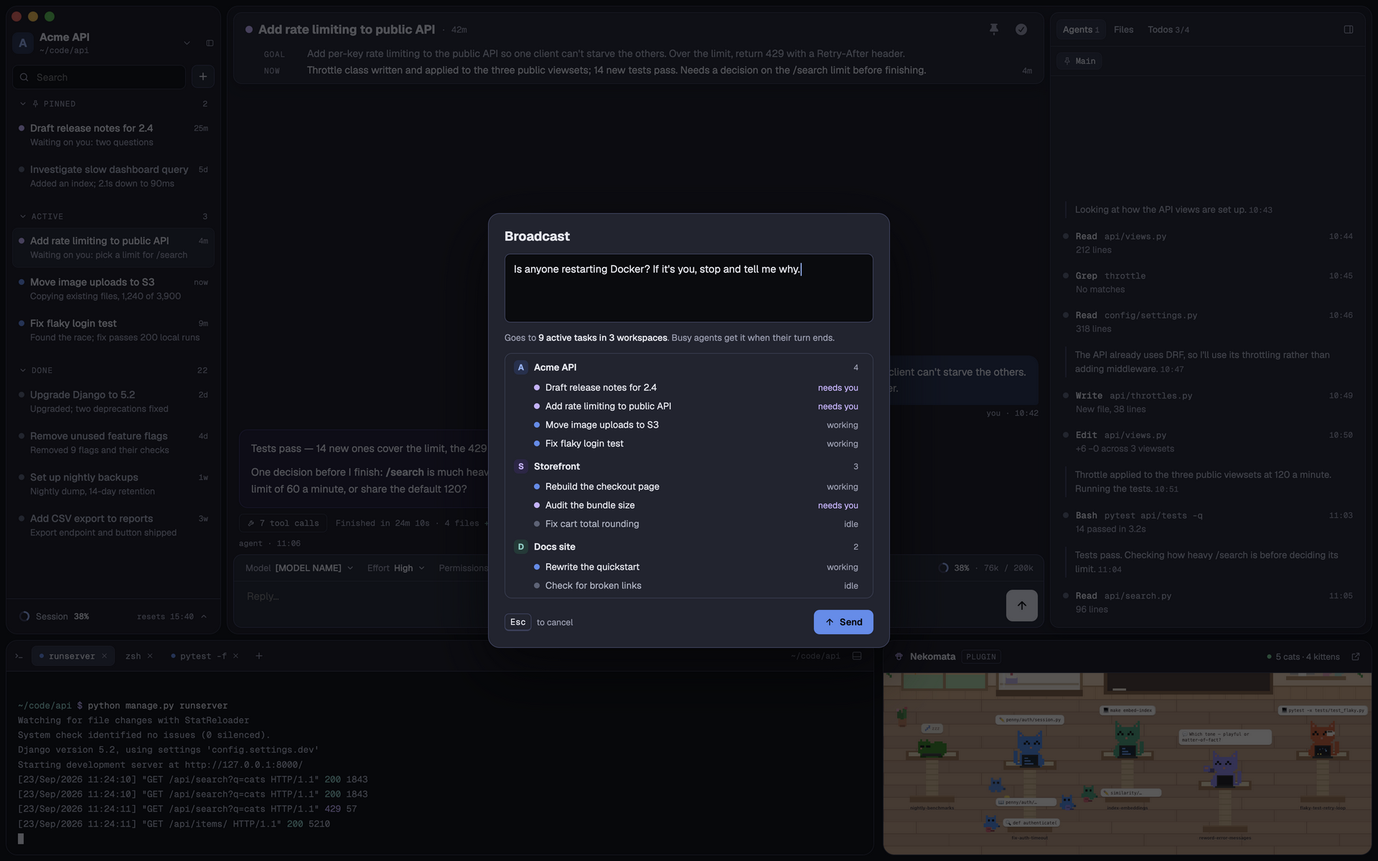
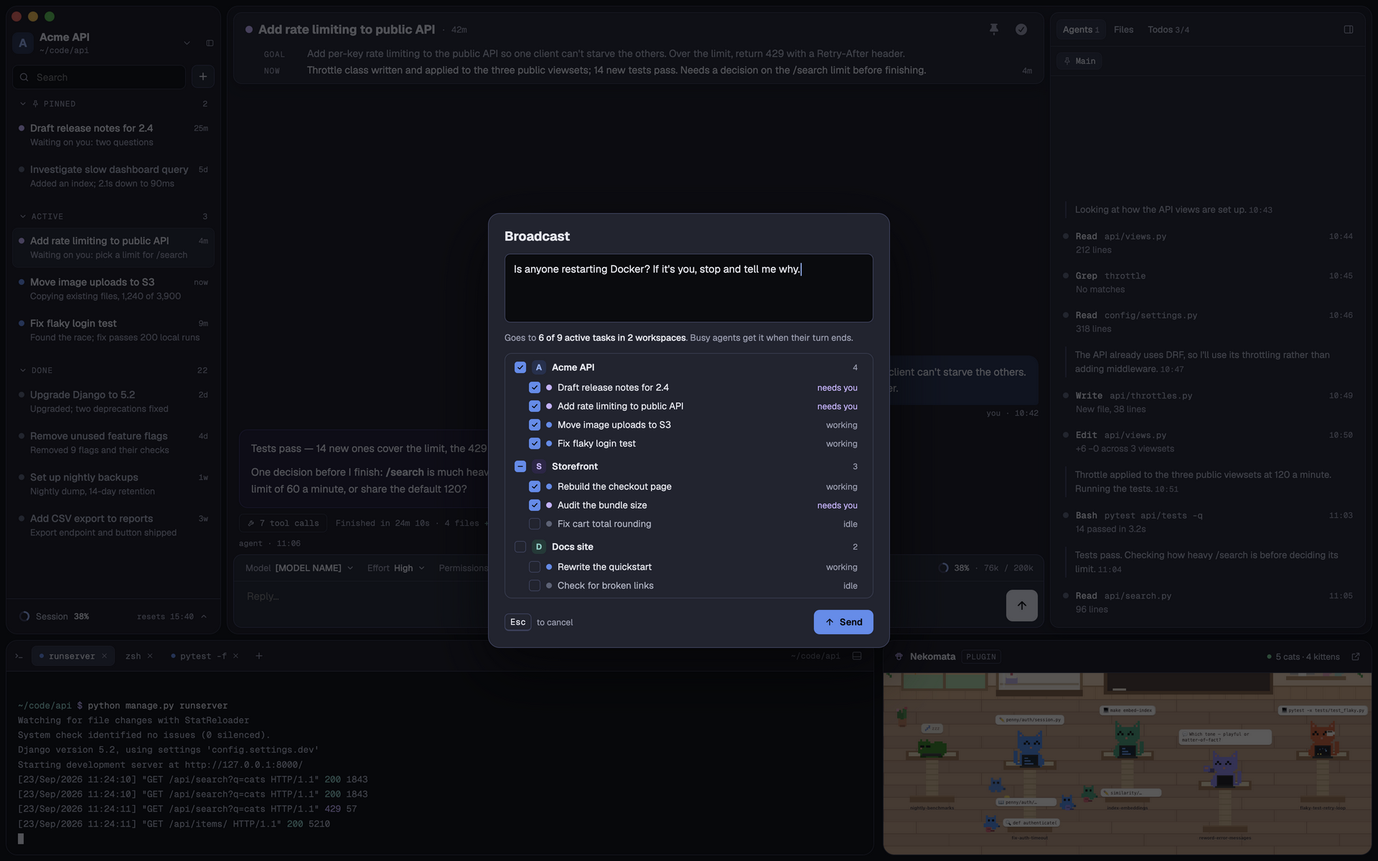
675: Make the tick-box modal screen 45 itself

diff --git a/docs/design/html/45-broadcast.html b/docs/design/html/45-broadcast.html
@@ -2,7 +2,7 @@
 <html lang="en">
 <head>
 <meta charset="utf-8">
-<title>Broadcast</title>
+<title>Broadcast: select (tick boxes)</title>
 <script src="./support.js"></script>
 </head>
 <body>
@@ -260,26 +260,9 @@ a{color:#8FB2F5}a:hover{color:#B5CBF8}
 <div role="dialog" aria-label="Broadcast" style="width: 560px; box-sizing: border-box; padding: 20px 22px 18px 22px; background: #222430; border: 1px solid #3D425E; border-radius: 16px; box-shadow: 0 30px 80px rgba(0,0,0,0.6); display: flex; flex-direction: column; gap: 12px; color: #E6E8F0">
 <h2 style="margin: 0; font-size: 18px; font-weight: 700; line-height: 1.3; color: #E6E8F0">Broadcast</h2>
 <div role="textbox" aria-label="Broadcast message" style="box-sizing: border-box; width: 100%; min-height: 96px; padding: 10px 12px; background: #0A0B0F; border-radius: 8px; font-size: 14.5px; line-height: 1.5; color: #E6E8F0; border: 1px solid #3D425E">Is anyone restarting Docker? If it's you, stop and tell me why.<span aria-hidden="true" style="display: inline-block; width: 1.5px; height: 18px; margin-left: 1px; background: #8FB2F5; vertical-align: text-bottom"></span></div>
-<p style="margin: 0; font-size: 12.5px; line-height: 1.5; color: #999DB0">Goes to <span style="font-weight: 500; color: #E6E8F0">9 active tasks in 3 workspaces</span>. Busy agents get it when their turn ends.</p>
+<p style="margin: 0; font-size: 12.5px; line-height: 1.5; color: #999DB0">Goes to <span style="font-weight: 500; color: #E6E8F0">6 of 9 active tasks in 2 workspaces</span>. Busy agents get it when their turn ends.</p>
 <div aria-label="Recipients" style="position: relative; box-sizing: border-box; max-height: 420px; overflow: hidden; padding: 4px 12px 4px 4px; border: 1px solid #373C4F; border-radius: 10px; display: flex; flex-direction: column; gap: 4px">
-<div style="flex-shrink: 0; display: flex; flex-direction: column">
-<div style="display: flex; align-items: center; gap: 8px; height: 30px; padding: 0 8px"><span aria-hidden="true" style="flex-shrink: 0; width: 20px; height: 20px; border-radius: 6px; background: #26314F; color: #8FB2F5; display: flex; align-items: center; justify-content: center; font-size: 11.5px; font-weight: 700">A</span><span style="flex-grow: 1; min-width: 0; font-size: 13px; font-weight: 600; color: #E6E8F0">Acme API</span><span style="flex-shrink: 0; font-family: 'Geist Mono', ui-monospace, monospace; font-size: 11px; color: #999DB0">4</span></div>
-<div style="display: flex; align-items: center; gap: 8px; height: 26px; padding: 0 8px 0 36px"><span style="flex-shrink: 0; width: 8px; height: 8px; border-radius: 4px; background: #C8B2FF"></span><span style="flex-grow: 1; min-width: 0; font-size: 13px; color: #E6E8F0; white-space: nowrap; overflow: hidden; text-overflow: ellipsis">Draft release notes for 2.4</span><span style="flex-shrink: 0; font-size: 12px; color: #C8B2FF">needs you</span></div>
-<div style="display: flex; align-items: center; gap: 8px; height: 26px; padding: 0 8px 0 36px"><span style="flex-shrink: 0; width: 8px; height: 8px; border-radius: 4px; background: #C8B2FF"></span><span style="flex-grow: 1; min-width: 0; font-size: 13px; color: #E6E8F0; white-space: nowrap; overflow: hidden; text-overflow: ellipsis">Add rate limiting to public API</span><span style="flex-shrink: 0; font-size: 12px; color: #C8B2FF">needs you</span></div>
-<div style="display: flex; align-items: center; gap: 8px; height: 26px; padding: 0 8px 0 36px"><span style="flex-shrink: 0; width: 8px; height: 8px; border-radius: 4px; background: #5B8DEF"></span><span style="flex-grow: 1; min-width: 0; font-size: 13px; color: #E6E8F0; white-space: nowrap; overflow: hidden; text-overflow: ellipsis">Move image uploads to S3</span><span style="flex-shrink: 0; font-size: 12px; color: #999DB0">working</span></div>
-<div style="display: flex; align-items: center; gap: 8px; height: 26px; padding: 0 8px 0 36px"><span style="flex-shrink: 0; width: 8px; height: 8px; border-radius: 4px; background: #5B8DEF"></span><span style="flex-grow: 1; min-width: 0; font-size: 13px; color: #E6E8F0; white-space: nowrap; overflow: hidden; text-overflow: ellipsis">Fix flaky login test</span><span style="flex-shrink: 0; font-size: 12px; color: #999DB0">working</span></div>
-</div>
-<div style="flex-shrink: 0; display: flex; flex-direction: column">
-<div style="display: flex; align-items: center; gap: 8px; height: 30px; padding: 0 8px"><span aria-hidden="true" style="flex-shrink: 0; width: 20px; height: 20px; border-radius: 6px; background: #2E2748; color: #C8B2FF; display: flex; align-items: center; justify-content: center; font-size: 11.5px; font-weight: 700">S</span><span style="flex-grow: 1; min-width: 0; font-size: 13px; font-weight: 600; color: #E6E8F0">Storefront</span><span style="flex-shrink: 0; font-family: 'Geist Mono', ui-monospace, monospace; font-size: 11px; color: #999DB0">3</span></div>
-<div style="display: flex; align-items: center; gap: 8px; height: 26px; padding: 0 8px 0 36px"><span style="flex-shrink: 0; width: 8px; height: 8px; border-radius: 4px; background: #5B8DEF"></span><span style="flex-grow: 1; min-width: 0; font-size: 13px; color: #E6E8F0; white-space: nowrap; overflow: hidden; text-overflow: ellipsis">Rebuild the checkout page</span><span style="flex-shrink: 0; font-size: 12px; color: #999DB0">working</span></div>
-<div style="display: flex; align-items: center; gap: 8px; height: 26px; padding: 0 8px 0 36px"><span style="flex-shrink: 0; width: 8px; height: 8px; border-radius: 4px; background: #C8B2FF"></span><span style="flex-grow: 1; min-width: 0; font-size: 13px; color: #E6E8F0; white-space: nowrap; overflow: hidden; text-overflow: ellipsis">Audit the bundle size</span><span style="flex-shrink: 0; font-size: 12px; color: #C8B2FF">needs you</span></div>
-<div style="display: flex; align-items: center; gap: 8px; height: 26px; padding: 0 8px 0 36px"><span style="flex-shrink: 0; width: 8px; height: 8px; border-radius: 4px; background: #5C6378"></span><span style="flex-grow: 1; min-width: 0; font-size: 13px; color: #AEB3C3; white-space: nowrap; overflow: hidden; text-overflow: ellipsis">Fix cart total rounding</span><span style="flex-shrink: 0; font-size: 12px; color: #999DB0">idle</span></div>
-</div>
-<div style="flex-shrink: 0; display: flex; flex-direction: column">
-<div style="display: flex; align-items: center; gap: 8px; height: 30px; padding: 0 8px"><span aria-hidden="true" style="flex-shrink: 0; width: 20px; height: 20px; border-radius: 6px; background: #1F3A38; color: #7FD1C7; display: flex; align-items: center; justify-content: center; font-size: 11.5px; font-weight: 700">D</span><span style="flex-grow: 1; min-width: 0; font-size: 13px; font-weight: 600; color: #E6E8F0">Docs site</span><span style="flex-shrink: 0; font-family: 'Geist Mono', ui-monospace, monospace; font-size: 11px; color: #999DB0">2</span></div>
-<div style="display: flex; align-items: center; gap: 8px; height: 26px; padding: 0 8px 0 36px"><span style="flex-shrink: 0; width: 8px; height: 8px; border-radius: 4px; background: #5B8DEF"></span><span style="flex-grow: 1; min-width: 0; font-size: 13px; color: #E6E8F0; white-space: nowrap; overflow: hidden; text-overflow: ellipsis">Rewrite the quickstart</span><span style="flex-shrink: 0; font-size: 12px; color: #999DB0">working</span></div>
-<div style="display: flex; align-items: center; gap: 8px; height: 26px; padding: 0 8px 0 36px"><span style="flex-shrink: 0; width: 8px; height: 8px; border-radius: 4px; background: #5C6378"></span><span style="flex-grow: 1; min-width: 0; font-size: 13px; color: #AEB3C3; white-space: nowrap; overflow: hidden; text-overflow: ellipsis">Check for broken links</span><span style="flex-shrink: 0; font-size: 12px; color: #999DB0">idle</span></div>
-</div>
+<div style="flex-shrink:0;display:flex;flex-direction:column"><button type="button" role="checkbox" aria-checked="true" aria-label="Acme API" style="display:flex;align-items:center;gap:8px;width:100%;height:30px;padding:0 8px;background:transparent;border:1px solid transparent;border-radius:6px;font:inherit;text-align:left;color:inherit;cursor:pointer"><span aria-hidden="true" style="flex-shrink:0;width:16px;height:16px;box-sizing:border-box;border-radius:4px;background:#5B8DEF;border:1px solid #5B8DEF;display:flex;align-items:center;justify-content:center"><svg width="11" height="11" viewBox="0 0 24 24" fill="none" stroke="#0A0B0F" stroke-width="3" stroke-linecap="round" stroke-linejoin="round"><path d="M5 12.5 10 17l9-10"></path></svg></span><span aria-hidden="true" style="flex-shrink:0;width:20px;height:20px;border-radius:6px;background:#26314F;color:#8FB2F5;display:flex;align-items:center;justify-content:center;font-size:11.5px;font-weight:700">A</span><span style="flex-grow:1;min-width:0;font-size:13px;font-weight:600;color:#E6E8F0">Acme API</span><span style="flex-shrink:0;font-family:'Geist Mono',ui-monospace,monospace;font-size:11px;color:#999DB0">4</span></button><button type="button" role="checkbox" aria-checked="true" aria-label="Draft release notes for 2.4" style="display:flex;align-items:center;gap:8px;width:100%;height:26px;padding:0 8px 0 28px;background:transparent;border:1px solid transparent;border-radius:6px;font:inherit;text-align:left;color:inherit;cursor:pointer"><span aria-hidden="true" style="flex-shrink:0;width:16px;height:16px;box-sizing:border-box;border-radius:4px;background:#5B8DEF;border:1px solid #5B8DEF;display:flex;align-items:center;justify-content:center"><svg width="11" height="11" viewBox="0 0 24 24" fill="none" stroke="#0A0B0F" stroke-width="3" stroke-linecap="round" stroke-linejoin="round"><path d="M5 12.5 10 17l9-10"></path></svg></span><span aria-hidden="true" style="flex-shrink:0;width:8px;height:8px;border-radius:4px;background:#C8B2FF"></span><span style="flex-grow:1;min-width:0;font-size:13px;color:#E6E8F0;white-space:nowrap;overflow:hidden;text-overflow:ellipsis">Draft release notes for 2.4</span><span style="flex-shrink:0;font-size:12px;color:#C8B2FF">needs you</span></button><button type="button" role="checkbox" aria-checked="true" aria-label="Add rate limiting to public API" style="display:flex;align-items:center;gap:8px;width:100%;height:26px;padding:0 8px 0 28px;background:transparent;border:1px solid transparent;border-radius:6px;font:inherit;text-align:left;color:inherit;cursor:pointer"><span aria-hidden="true" style="flex-shrink:0;width:16px;height:16px;box-sizing:border-box;border-radius:4px;background:#5B8DEF;border:1px solid #5B8DEF;display:flex;align-items:center;justify-content:center"><svg width="11" height="11" viewBox="0 0 24 24" fill="none" stroke="#0A0B0F" stroke-width="3" stroke-linecap="round" stroke-linejoin="round"><path d="M5 12.5 10 17l9-10"></path></svg></span><span aria-hidden="true" style="flex-shrink:0;width:8px;height:8px;border-radius:4px;background:#C8B2FF"></span><span style="flex-grow:1;min-width:0;font-size:13px;color:#E6E8F0;white-space:nowrap;overflow:hidden;text-overflow:ellipsis">Add rate limiting to public API</span><span style="flex-shrink:0;font-size:12px;color:#C8B2FF">needs you</span></button><button type="button" role="checkbox" aria-checked="true" aria-label="Move image uploads to S3" style="display:flex;align-items:center;gap:8px;width:100%;height:26px;padding:0 8px 0 28px;background:transparent;border:1px solid transparent;border-radius:6px;font:inherit;text-align:left;color:inherit;cursor:pointer"><span aria-hidden="true" style="flex-shrink:0;width:16px;height:16px;box-sizing:border-box;border-radius:4px;background:#5B8DEF;border:1px solid #5B8DEF;display:flex;align-items:center;justify-content:center"><svg width="11" height="11" viewBox="0 0 24 24" fill="none" stroke="#0A0B0F" stroke-width="3" stroke-linecap="round" stroke-linejoin="round"><path d="M5 12.5 10 17l9-10"></path></svg></span><span aria-hidden="true" style="flex-shrink:0;width:8px;height:8px;border-radius:4px;background:#5B8DEF"></span><span style="flex-grow:1;min-width:0;font-size:13px;color:#E6E8F0;white-space:nowrap;overflow:hidden;text-overflow:ellipsis">Move image uploads to S3</span><span style="flex-shrink:0;font-size:12px;color:#999DB0">working</span></button><button type="button" role="checkbox" aria-checked="true" aria-label="Fix flaky login test" style="display:flex;align-items:center;gap:8px;width:100%;height:26px;padding:0 8px 0 28px;background:transparent;border:1px solid transparent;border-radius:6px;font:inherit;text-align:left;color:inherit;cursor:pointer"><span aria-hidden="true" style="flex-shrink:0;width:16px;height:16px;box-sizing:border-box;border-radius:4px;background:#5B8DEF;border:1px solid #5B8DEF;display:flex;align-items:center;justify-content:center"><svg width="11" height="11" viewBox="0 0 24 24" fill="none" stroke="#0A0B0F" stroke-width="3" stroke-linecap="round" stroke-linejoin="round"><path d="M5 12.5 10 17l9-10"></path></svg></span><span aria-hidden="true" style="flex-shrink:0;width:8px;height:8px;border-radius:4px;background:#5B8DEF"></span><span style="flex-grow:1;min-width:0;font-size:13px;color:#E6E8F0;white-space:nowrap;overflow:hidden;text-overflow:ellipsis">Fix flaky login test</span><span style="flex-shrink:0;font-size:12px;color:#999DB0">working</span></button></div><div style="flex-shrink:0;display:flex;flex-direction:column"><button type="button" role="checkbox" aria-checked="mixed" aria-label="Storefront" style="display:flex;align-items:center;gap:8px;width:100%;height:30px;padding:0 8px;background:transparent;border:1px solid transparent;border-radius:6px;font:inherit;text-align:left;color:inherit;cursor:pointer"><span aria-hidden="true" style="flex-shrink:0;width:16px;height:16px;box-sizing:border-box;border-radius:4px;background:#5B8DEF;border:1px solid #5B8DEF;display:flex;align-items:center;justify-content:center"><svg width="10" height="10" viewBox="0 0 24 24" fill="none" stroke="#0A0B0F" stroke-width="3" stroke-linecap="round"><path d="M5 12h14"></path></svg></span><span aria-hidden="true" style="flex-shrink:0;width:20px;height:20px;border-radius:6px;background:#2E2748;color:#C8B2FF;display:flex;align-items:center;justify-content:center;font-size:11.5px;font-weight:700">S</span><span style="flex-grow:1;min-width:0;font-size:13px;font-weight:600;color:#E6E8F0">Storefront</span><span style="flex-shrink:0;font-family:'Geist Mono',ui-monospace,monospace;font-size:11px;color:#999DB0">3</span></button><button type="button" role="checkbox" aria-checked="true" aria-label="Rebuild the checkout page" style="display:flex;align-items:center;gap:8px;width:100%;height:26px;padding:0 8px 0 28px;background:transparent;border:1px solid transparent;border-radius:6px;font:inherit;text-align:left;color:inherit;cursor:pointer"><span aria-hidden="true" style="flex-shrink:0;width:16px;height:16px;box-sizing:border-box;border-radius:4px;background:#5B8DEF;border:1px solid #5B8DEF;display:flex;align-items:center;justify-content:center"><svg width="11" height="11" viewBox="0 0 24 24" fill="none" stroke="#0A0B0F" stroke-width="3" stroke-linecap="round" stroke-linejoin="round"><path d="M5 12.5 10 17l9-10"></path></svg></span><span aria-hidden="true" style="flex-shrink:0;width:8px;height:8px;border-radius:4px;background:#5B8DEF"></span><span style="flex-grow:1;min-width:0;font-size:13px;color:#E6E8F0;white-space:nowrap;overflow:hidden;text-overflow:ellipsis">Rebuild the checkout page</span><span style="flex-shrink:0;font-size:12px;color:#999DB0">working</span></button><button type="button" role="checkbox" aria-checked="true" aria-label="Audit the bundle size" style="display:flex;align-items:center;gap:8px;width:100%;height:26px;padding:0 8px 0 28px;background:transparent;border:1px solid transparent;border-radius:6px;font:inherit;text-align:left;color:inherit;cursor:pointer"><span aria-hidden="true" style="flex-shrink:0;width:16px;height:16px;box-sizing:border-box;border-radius:4px;background:#5B8DEF;border:1px solid #5B8DEF;display:flex;align-items:center;justify-content:center"><svg width="11" height="11" viewBox="0 0 24 24" fill="none" stroke="#0A0B0F" stroke-width="3" stroke-linecap="round" stroke-linejoin="round"><path d="M5 12.5 10 17l9-10"></path></svg></span><span aria-hidden="true" style="flex-shrink:0;width:8px;height:8px;border-radius:4px;background:#C8B2FF"></span><span style="flex-grow:1;min-width:0;font-size:13px;color:#E6E8F0;white-space:nowrap;overflow:hidden;text-overflow:ellipsis">Audit the bundle size</span><span style="flex-shrink:0;font-size:12px;color:#C8B2FF">needs you</span></button><button type="button" role="checkbox" aria-checked="false" aria-label="Fix cart total rounding" style="display:flex;align-items:center;gap:8px;width:100%;height:26px;padding:0 8px 0 28px;background:transparent;border:1px solid transparent;border-radius:6px;font:inherit;text-align:left;color:inherit;cursor:pointer"><span aria-hidden="true" style="flex-shrink:0;width:16px;height:16px;box-sizing:border-box;border-radius:4px;background:transparent;border:1px solid #3D425E"></span><span aria-hidden="true" style="flex-shrink:0;width:8px;height:8px;border-radius:4px;background:#5C6378"></span><span style="flex-grow:1;min-width:0;font-size:13px;color:#AEB3C3;white-space:nowrap;overflow:hidden;text-overflow:ellipsis">Fix cart total rounding</span><span style="flex-shrink:0;font-size:12px;color:#999DB0">idle</span></button></div><div style="flex-shrink:0;display:flex;flex-direction:column"><button type="button" role="checkbox" aria-checked="false" aria-label="Docs site" style="display:flex;align-items:center;gap:8px;width:100%;height:30px;padding:0 8px;background:transparent;border:1px solid transparent;border-radius:6px;font:inherit;text-align:left;color:inherit;cursor:pointer"><span aria-hidden="true" style="flex-shrink:0;width:16px;height:16px;box-sizing:border-box;border-radius:4px;background:transparent;border:1px solid #3D425E"></span><span aria-hidden="true" style="flex-shrink:0;width:20px;height:20px;border-radius:6px;background:#1F3A38;color:#7FD1C7;display:flex;align-items:center;justify-content:center;font-size:11.5px;font-weight:700">D</span><span style="flex-grow:1;min-width:0;font-size:13px;font-weight:600;color:#E6E8F0">Docs site</span><span style="flex-shrink:0;font-family:'Geist Mono',ui-monospace,monospace;font-size:11px;color:#999DB0">2</span></button><button type="button" role="checkbox" aria-checked="false" aria-label="Rewrite the quickstart" style="display:flex;align-items:center;gap:8px;width:100%;height:26px;padding:0 8px 0 28px;background:transparent;border:1px solid transparent;border-radius:6px;font:inherit;text-align:left;color:inherit;cursor:pointer"><span aria-hidden="true" style="flex-shrink:0;width:16px;height:16px;box-sizing:border-box;border-radius:4px;background:transparent;border:1px solid #3D425E"></span><span aria-hidden="true" style="flex-shrink:0;width:8px;height:8px;border-radius:4px;background:#5B8DEF"></span><span style="flex-grow:1;min-width:0;font-size:13px;color:#E6E8F0;white-space:nowrap;overflow:hidden;text-overflow:ellipsis">Rewrite the quickstart</span><span style="flex-shrink:0;font-size:12px;color:#999DB0">working</span></button><button type="button" role="checkbox" aria-checked="false" aria-label="Check for broken links" style="display:flex;align-items:center;gap:8px;width:100%;height:26px;padding:0 8px 0 28px;background:transparent;border:1px solid transparent;border-radius:6px;font:inherit;text-align:left;color:inherit;cursor:pointer"><span aria-hidden="true" style="flex-shrink:0;width:16px;height:16px;box-sizing:border-box;border-radius:4px;background:transparent;border:1px solid #3D425E"></span><span aria-hidden="true" style="flex-shrink:0;width:8px;height:8px;border-radius:4px;background:#5C6378"></span><span style="flex-grow:1;min-width:0;font-size:13px;color:#AEB3C3;white-space:nowrap;overflow:hidden;text-overflow:ellipsis">Check for broken links</span><span style="flex-shrink:0;font-size:12px;color:#999DB0">idle</span></button></div>
 </div>
 <div style="display: flex; align-items: center; gap: 8px; margin-top: 4px"><span style="display: flex; align-items: center; gap: 7px; font-size: 12px; color: #999DB0"><kbd style="display: inline-block; min-width: 18px; padding: 3px 7px; background: #232531; border: 1px solid #3D425E; border-bottom-width: 2px; border-radius: 6px; font-family: 'Geist Mono', ui-monospace, monospace; font-size: 12px; color: #E6E8F0; text-align: center">Esc</kbd>to cancel</span><span style="flex-grow: 1"></span><button type="button" style="display: flex; align-items: center; justify-content: center; gap: 7px; height: 34px; padding: 0 14px; border-radius: 8px; font: inherit; font-size: 13px; cursor: pointer; white-space: nowrap; background: #5B8DEF; color: #0A0B0F; border: 1px solid #5B8DEF; font-weight: 600"><svg width="14" height="14" viewBox="0 0 24 24" fill="none" stroke="currentColor" stroke-width="2.2" stroke-linecap="round" stroke-linejoin="round"><path d="M12 19V5M5 12l7-7 7 7"></path></svg>Send</button></div>
 </div>

diff --git a/src/renderer/broadcast/BroadcastDialog.tsx b/src/renderer/broadcast/BroadcastDialog.tsx
@@ -286,7 +286,7 @@ function BroadcastForm({ titleId, fieldRef, onClose }: BroadcastFormProps): Reac
 }
 
 /**
- * The Broadcast modal (⌘⇧B; `docs/design/screens/45-broadcast-select.png`): one message to the active tasks you've
+ * The Broadcast modal (⌘⇧B; `docs/design/screens/45-broadcast.png`): one message to the active tasks you've
  * ticked, in every workspace (#675). It lists them by workspace as tick boxes — a workspace's box ticks or unticks
  * all its tasks, and shows a dash when only some are ticked — everything ticked when the modal opens, and says what's
  * ticked before it's sent. ↵ or Send sends it to the ticked ones and closes the modal; Esc or a click outside closes

diff --git a/src/renderer/broadcast/broadcastModel.ts b/src/renderer/broadcast/broadcastModel.ts
@@ -1,5 +1,5 @@
 /**
- * Who a broadcast reaches (#489, `docs/design/html/45-broadcast-select.html`): every active task that has an agent
+ * Who a broadcast reaches (#489, `docs/design/html/45-broadcast.html`): every active task that has an agent
  * (`receivesBroadcast`, the rule main sends by), in every workspace, as the Broadcast modal lists them as tick boxes
  * before it's sent (#675). Everything is ticked when the modal opens; the modal holds the ones it has had unticked to
  * it, and a broadcast goes to the ticked ones only. Main decides who really gets it, as it sends (`tasks.broadcast`);

diff --git a/e2e/selectors.ts b/e2e/selectors.ts
@@ -853,7 +853,7 @@ export function unsavedDialog(page: Page) {
 }
 
 /**
- * The Broadcast modal (File › Broadcast…, `docs/design/html/45-broadcast-select.html`): its message field, the line
+ * The Broadcast modal (File › Broadcast…, `docs/design/html/45-broadcast.html`): its message field, the line
  * saying what's ticked, the recipients by workspace as tick boxes, and Send.
  */
 export function broadcastDialog(page: Page) {

diff --git a/src/renderer/broadcast/BroadcastDialog.module.css b/src/renderer/broadcast/BroadcastDialog.module.css
@@ -1,4 +1,4 @@
-/* The Broadcast modal, docs/design/html/45-broadcast-select.html: the Settings modal's backdrop and card, sized for a message. */
+/* The Broadcast modal, docs/design/html/45-broadcast.html: the Settings modal's backdrop and card, sized for a message. */
 .backdrop {
   z-index: 20;
   display: flex;

diff --git a/docs/design/README.md b/docs/design/README.md
@@ -121,9 +121,8 @@ sidebar status line's; the Settings headings' takes the heading's own grey, sinc
 | 44 · Sandbox card, outside the sandbox | A command that wants to run outside the sandbox. The card says "The agent wants to run a command outside the sandbox", adds that it can then use any folder and reach any domain, and shows the command and what it's for. It offers only **Allow once** · **Deny**, and asks every time, in either mode. The cards answered before it aren't in the chat, which has only your messages and the agent's (your message denying the install and skipping uv). Their decisions are on their calls' rows in the Agents tab's tool calls, each after the shield, status first, then what was asked: every state, decided by you and by a rule, the wording saying which. Teal, granted: by you, "Allowed for this task: read ~/code/acme-web", "Allowed for this workspace: write to ~/code/acme-web/src/api", and "Allowed once: run outside the sandbox" on `git push`; by a rule, "Allowed by workspace grant: read ~/code/acme-shared". Pink, denied or blocked: by you, "Denied: reach registry.npmjs.org · “…”" on the `npx` command that made the request; by the sandbox, "Blocked by the sandbox: write to ~/.cache/uv" on the failed `uv sync`. Slate, dimmed: "Withdrawn: write to ~/.cache/uv" on the `request_access` call made after it. Purple: the open card's `docker compose up -d db`, "Waiting on you: run outside the sandbox". The failed `pytest` has no shield: no permission was involved. Built from 23 and 24 · Permissions picker; no original design. | ![44 · Sandbox card, outside the sandbox](screens/44-sandbox-outside-card.png) |
 | Sandbox card, MCP servers and other agents (no screen) | P15-11 (#515). An MCP server Glade doesn't build runs outside the sandbox, so it's a grant of its own: the same card as 42, "The agent wants to use the `claude.ai Acme Docs` MCP server" (the server's name as code, as a folder is), a line under the title saying what allowing it means ("It runs outside the sandbox, with whatever access it has. Allowing it covers every tool of the server."), then the tool being called in mono and its input as the JSON block of 23, and **Allow for this task** · **Allow for this workspace** · **Deny** with Deny's note. One card per server, never per tool or call. The same card asks for the two tools that reach other agents, with no code in the title: "The agent wants to message other Claude sessions" (`SendMessage` to anything but the task's own subagents) and "The agent wants to manage cloud agents" (`RemoteTrigger`), each with its own line under the title. A subagent's is named at the top right, as on 23. In the Agents tab's tool calls the lines are status first, as every permission line: "Allowed for this workspace: use the acme-tracker MCP server", "Allowed by workspace grant: use the acme-tracker MCP server", "Allowed for this task: message other Claude sessions", "Denied: manage cloud agents · “…”", "Waiting on you: use the claude.ai Acme Docs MCP server". Built from 42 · Sandbox card, folders, 43 and 23 · Permission card; no original design. | ![Sandbox card, MCP server](../images/guide/sandbox-server-card.png) |
 | Settings › Sandbox › MCP servers (no screen) | P15-11 (#515). A third list, **MCP servers**, under Folders and Domains in Settings › Agent's Sandbox group (Glade-wide) and in Settings › Workspace's. The same header (name, a line on what it's for, **Add…**) over the same bordered box of rows. A server's row is a domain's row with a plug icon: its name as Claude Code reports it, in mono (on hover, the name its tools carry, `mcp__claude_ai_Acme_Docs`), and a remove ×. The other agents are listed with them, in the UI font since they're words: **Messaging other Claude sessions** (a speech-bubbles icon) and **Cloud agents** (a cloud). **Add…** opens the highlighted row of 40 with the compact select of 39 in place of a path: what there is to add (the servers the scope's sessions have reported, by name, then the other agents), the first chosen, then **Add** (focused) and **Cancel**. With nothing left to add, the list's error line says so. Empty, the list says "No MCP servers yet."; with the sandbox off it dims with the others. Built from 39 · Settings › Agent › Sandbox, 40 and 41; no original design. | ![Settings › Sandbox › MCP servers](../images/guide/settings-mcp-servers.png) |
-| 45 · Broadcast | The Broadcast modal (⌘⇧B, File › Broadcast…; #489), on the Settings modal's dimmed backdrop: the title, the message field (↵ sends, ⇧↵ a new line), the line saying who it goes to ("Goes to 9 active tasks in 3 workspaces. Busy agents get it when their turn ends."), and the recipients, read-only, grouped by workspace: a 20px badge in the workspace's colour, its name and its count, then each Active task that has an agent (one never sent anything isn't listed, and gets nothing) with its dot (purple needs you, blue working, slate idle: the one attention rule, so a task stopped on an error is purple here), its title and where it stands. The modal grows with the list, which shows up to twelve tasks in three workspaces (420px) and scrolls past that; in a window too short for it, the list is what shrinks. The recipients as tick boxes to choose who gets it are on 45 · Broadcast, choosing recipients; this screen shows the read-only list the modal had before #675. No close button: Esc, shown as a keycap, or a click on the backdrop closes it. Send is the primary button, with the input bar's arrow. | ![45 · Broadcast](screens/45-broadcast.png) |
-| 45 · Broadcast, choosing recipients | The same modal with its recipients as tick boxes (#675): a box on each workspace row and on each task row, the whole row clickable, tasks indented under their workspace. The workspace's box ticks or unticks all its tasks and shows a dash (a blue one) when only some are ticked; a half-ticked box ticks them all back. Everything is ticked when the modal opens, and the next one opens with everything ticked again. The line counts what's ticked ("Goes to 6 of 9 active tasks in 2 workspaces. Busy agents get it when their turn ends."), and Send sends only to the ticked tasks. | ![45 · Broadcast, choosing recipients](screens/45-broadcast-select.png) |
-| 45 · Broadcast, nothing ticked | The same modal with nothing ticked: "Nothing ticked. Tick a task to send to it." in place of the line, and Send disabled until a task is ticked. | ![45 · Broadcast, nothing ticked](screens/45-broadcast-select-none.png) |
+| 45 · Broadcast | The Broadcast modal (⌘⇧B, File › Broadcast…; #489) with its recipients as tick boxes (#675): a box on each workspace row and on each task row, the whole row clickable, tasks indented under their workspace. The workspace's box ticks or unticks all its tasks and shows a dash (a blue one) when only some are ticked; a half-ticked box ticks them all back. Everything is ticked when the modal opens, and the next one opens with everything ticked again. The line counts what's ticked ("Goes to 6 of 9 active tasks in 2 workspaces. Busy agents get it when their turn ends."), and Send sends only to the ticked tasks. | ![45 · Broadcast, choosing recipients](screens/45-broadcast.png) |
+| 45 · Broadcast, nothing ticked | The same modal with nothing ticked: "Nothing ticked. Tick a task to send to it." in place of the line, and Send disabled until a task is ticked. | ![45 · Broadcast, nothing ticked](screens/45-broadcast-none.png) |
 | 45 · Broadcast, no active tasks | The same modal with no task to send to (no Active task in any workspace, or only ones never sent anything): "No active tasks to send to." in place of the line and the list, the field and Send disabled. | ![45 · Broadcast, no active tasks](screens/45-broadcast-empty.png) |
 | 45 · Broadcast, in a task | A close-up of a task's chat after a broadcast (960×580): your normal bubble, with a small mono caps `BROADCAST` tag in a hairline box to the left of "you · 12:14", and the agent's reply to it in its own chat. While a broadcast waits in a busy task's queue, its row carries the same tag after its number (no screen drawn). | ![45 · Broadcast, in a task](screens/45-broadcast-message.png) |
 | 46 · Todo hub | P16 (#491). The right panel has three tabs, **Agents · Files · Todos**: Agents shows what's happening (50 to 55), and Todos what the work produced, under the todo that made it: its files, links and changes, and nothing else. No subagent and no watcher is under a todo; they're in Agents. Every todo is a card on `inner-2`, with the same radius and padding: active, not started and done, closed and open, with something under it and with nothing (a bare title is a card too), the cards `space-xs` (4px) apart. Its state icon, its status line and its struck-through title say which it is; nothing else differs between cards. A todo is three lines, closed or open: its title, its status line, and one row of icons, in the same box either way, so opening one moves nothing above it. Closed: an icon and a count per kind (files, links, changes), a kind with none left out, and a todo that has produced nothing just its title. Open (the first one here): the icons are filter pills with All in front (the selected one on `strong`; a pill is 22px tall, and its hit area is the 28px of a dense touch target), and under them is one flat list, a tile each on `inner` with an `inner-border` outline, most recently updated first: the PR, then its commits, then the issue that started it. Nothing under a todo is live, so no count, pill or tile is ever blue: grey throughout, and pink only for a commit's removed lines. Nothing inside a card is black. Todos keep their order: active (a blue ring), then not started (a hollow ring), then done (a filled teal check, struck through, newest first, each with when it finished; #282, #308, #322), under how many are done, a progress bar and when the list last changed. A PR, an issue or a ticket a todo names is a link when the task has it (#500). Under the window (1920×1500), the states, each on a todo's card: the counts (grey, dimmer on a done todo), a filter pill (at rest, hover, focus, selected), a link in a todo's title and its status line, and a file's tile (at rest; hover and focus, where Open, Reveal in folder and More take its age's place as icon buttons; and outlined while it's the file showing in the Files tab, #307). The sidebar row's third line is here too, on this task and on Upgrade Django to 5.2 in Done: a task's todo progress (a ring and `1/4`; a check once all are done, `6/6`), then how many of its subagents are running, then an eye with how many watchers it has live, each only while there's something to show (#291); the line itself shows only while a task has something on it. 50 to 54 have it at other moments, and 55 on a done task. From the boards Jared approved (#493, redrawn for produced work only in #534). | ![46 · Todo hub](screens/46-todo-hub.png) |
